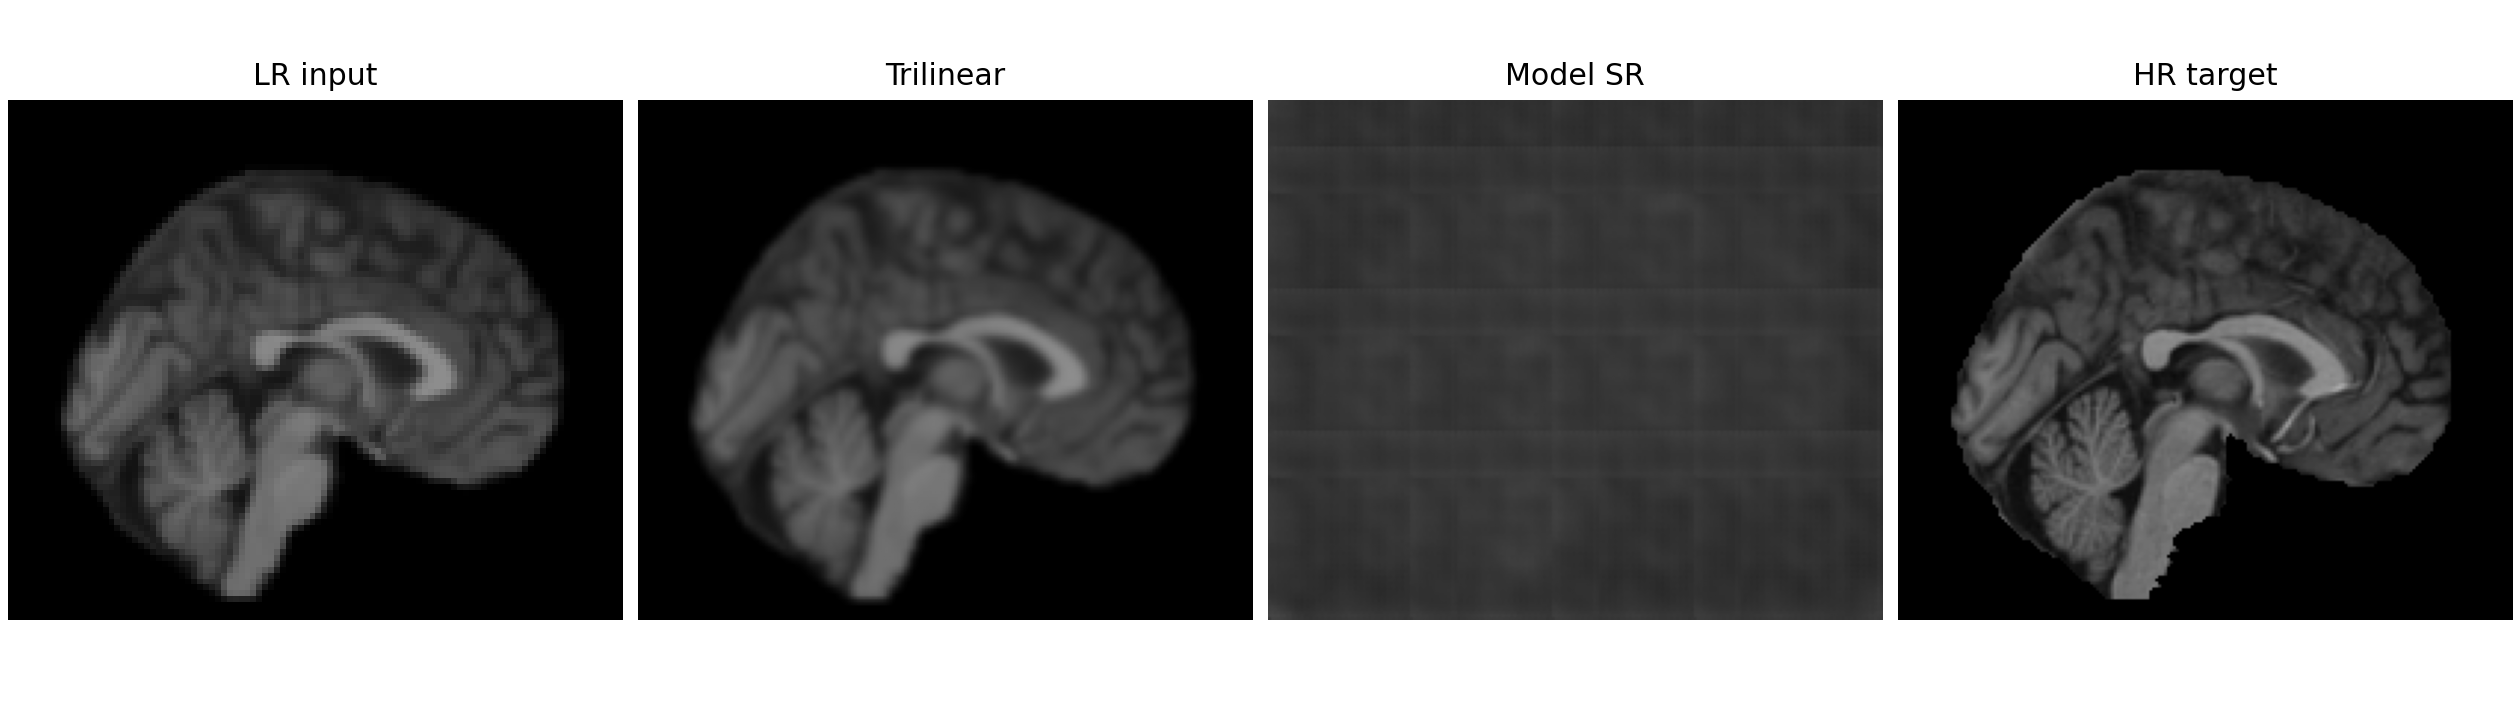
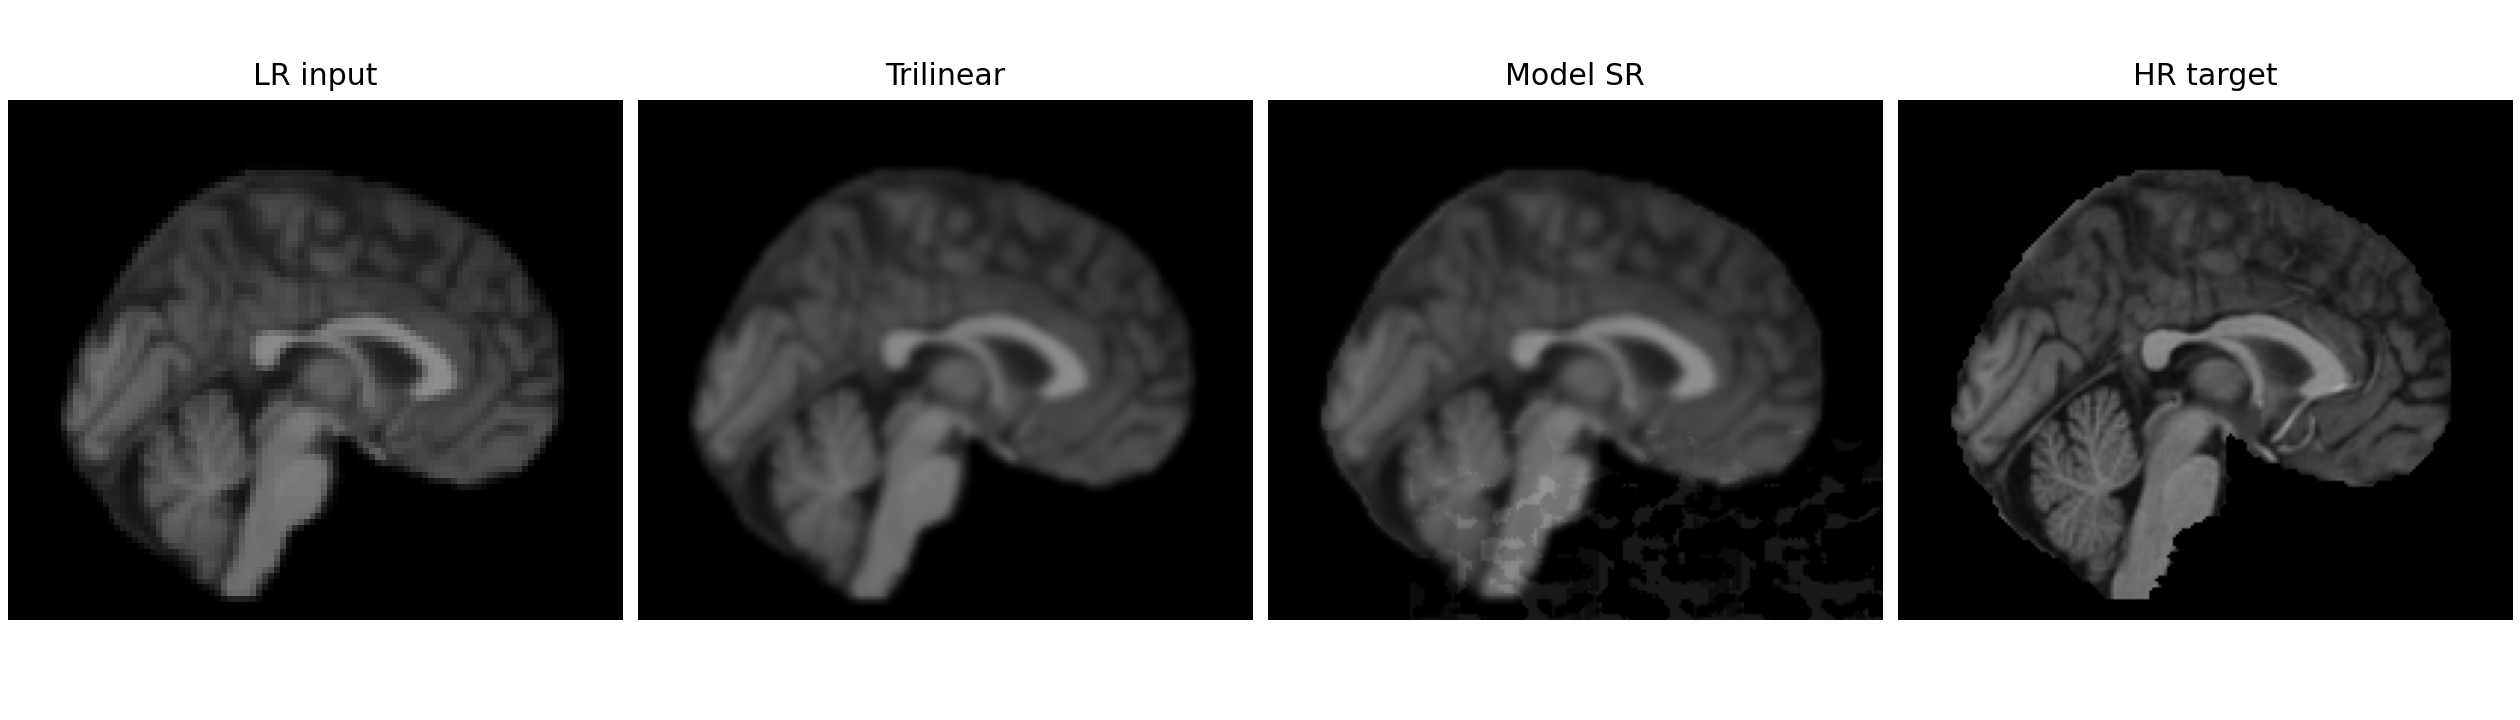
model3d results v2

Changed region(s): [[0.4952, 0.1222, 0.7738, 0.8861]]

diff --git a/3dmodel/model.py b/3dmodel/model.py
@@ -18,6 +18,7 @@ For input LR patch (1, 1, 32, 32, 32):
 
 import torch
 import torch.nn as nn
+import torch.nn.functional as F
 from transformers import AutoModel
 
 
@@ -101,7 +102,7 @@ class SRDecoder3D(nn.Module):
 
 
 class MedicalNetSR3D(nn.Module):
-    """Full 3D SR model: frozen MedicalNet encoder + trainable decoder."""
+    """Full 3D SR model: frozen MedicalNet encoder + residual decoder."""
 
     def __init__(self, encoder_name="nwirandx/medicalnet-resnet3d50"):
         super().__init__()
@@ -115,6 +116,8 @@ class MedicalNetSR3D(nn.Module):
 
         # Trainable decoder
         self.decoder = SRDecoder3D()
+        nn.init.zeros_(self.decoder.final_conv.weight)
+        nn.init.zeros_(self.decoder.final_conv.bias)
 
     def forward(self, lr_input):
         """
@@ -124,6 +127,13 @@ class MedicalNetSR3D(nn.Module):
         Returns:
             sr_output: (B, 1, 64, 64, 64) SR volume patch
         """
+        baseline = F.interpolate(
+            lr_input,
+            scale_factor=2,
+            mode="trilinear",
+            align_corners=False,
+        )
+
         # Extract multi-scale features from frozen encoder
         with torch.no_grad():
             encoder_out = self.encoder(
@@ -134,7 +144,9 @@ class MedicalNetSR3D(nn.Module):
 
         hidden_states = encoder_out.hidden_states  # tuple of 5 feature maps
 
-        # Decode to HR
-        sr_output = self.decoder(hidden_states)
+        # Decode a bounded residual over the trilinear baseline. This keeps
+        # untrained or weak checkpoints anatomically aligned with the LR input.
+        residual = 0.1 * torch.tanh(self.decoder(hidden_states))
+        sr_output = baseline + residual
 
         return sr_output

diff --git a/3dmodel/infer.py b/3dmodel/infer.py
@@ -116,7 +116,10 @@ def main():
 
     # Load trained decoder weights
     checkpoint = torch.load(args.checkpoint, map_location=device, weights_only=False)
-    model.decoder.load_state_dict(checkpoint["decoder_state_dict"])
+    if "model_state_dict" in checkpoint:
+        model.load_state_dict(checkpoint["model_state_dict"])
+    else:
+        model.decoder.load_state_dict(checkpoint["decoder_state_dict"])
     print(f"Loaded checkpoint (epoch {checkpoint['epoch']}, PSNR: {checkpoint['best_psnr']:.2f} dB)")
 
     model.eval()

diff --git a/3dmodel/evaluate.py b/3dmodel/evaluate.py
@@ -109,8 +109,8 @@ def main():
         psnr_improvement = results["model_sr"]["psnr_mean"] - results["trilinear"]["psnr_mean"]
         ssim_improvement = results["model_sr"]["ssim_mean"] - results["trilinear"]["ssim_mean"]
         print(f"\n  Model improvement over trilinear:")
-        print(f"    PSNR: +{psnr_improvement:.2f} dB")
-        print(f"    SSIM: +{ssim_improvement:.4f}")
+        print(f"    PSNR: {psnr_improvement:+.2f} dB")
+        print(f"    SSIM: {ssim_improvement:+.4f}")
 
     # Save results
     RESULTS_DIR.mkdir(parents=True, exist_ok=True)

diff --git a/3dmodel/test_pipeline.py b/3dmodel/test_pipeline.py
@@ -161,7 +161,7 @@ def test_gpu_stress(device, n_steps=10):
         print(f"       Step {step}/{n_steps} | Loss: {loss.item():.6f} | "
               f"Time: {elapsed:.2f}s | GPU: {mem:.2f} GB")
 
-    total_mem = torch.cuda.get_device_properties(device).total_mem / (1024 ** 3)
+    total_mem = torch.cuda.get_device_properties(device).total_memory / (1024 ** 3)
     max_mem = torch.cuda.max_memory_allocated(device) / (1024 ** 3)
     print(f"\n       Peak GPU: {max_mem:.2f} / {total_mem:.2f} GB")
     print(f"       Avg step time: {np.mean(step_times):.2f}s")

diff --git a/3dmodel/train.py b/3dmodel/train.py
@@ -172,6 +172,7 @@ def main():
             epochs_without_improvement = 0
             torch.save({
                 "epoch": epoch,
+                "model_state_dict": model.state_dict(),
                 "decoder_state_dict": model.decoder.state_dict(),
                 "optimizer_state_dict": optimizer.state_dict(),
                 "best_psnr": best_psnr,
@@ -186,6 +187,7 @@ def main():
     # ─── Final save ───────────────────────────────────────────────────────────
     torch.save({
         "epoch": epoch,
+        "model_state_dict": model.state_dict(),
         "decoder_state_dict": model.decoder.state_dict(),
         "optimizer_state_dict": optimizer.state_dict(),
         "best_psnr": best_psnr,

diff --git a/3dmodel/results/README.md b/3dmodel/results/README.md
@@ -10,13 +10,12 @@ Evaluation was run on 7 OASIS test subjects using 3D PSNR and 3D SSIM.
 
 | Method | PSNR (dB) | SSIM |
 |---|---:|---:|
-| MedicalNet SR 3D | 14.55 +/- 0.17 | 0.0567 +/- 0.0089 |
+| MedicalNet SR 3D | 33.08 +/- 1.00 | 0.9164 +/- 0.0181 |
 | Trilinear baseline | 33.10 +/- 0.76 | 0.9411 +/- 0.0044 |
 
-The trilinear baseline performs substantially better than the current trained
-3D model. These results should be interpreted as an experimental run and as a
-useful failure case for improving the architecture, loss, normalization, or
-training strategy.
+The residual 3D model now reconstructs anatomy at approximately trilinear
+quality. It slightly underperforms trilinear on mean PSNR (-0.02 dB) and SSIM
+(-0.0247), so it is a functional baseline rather than a clear improvement.
 
 ## Files
 